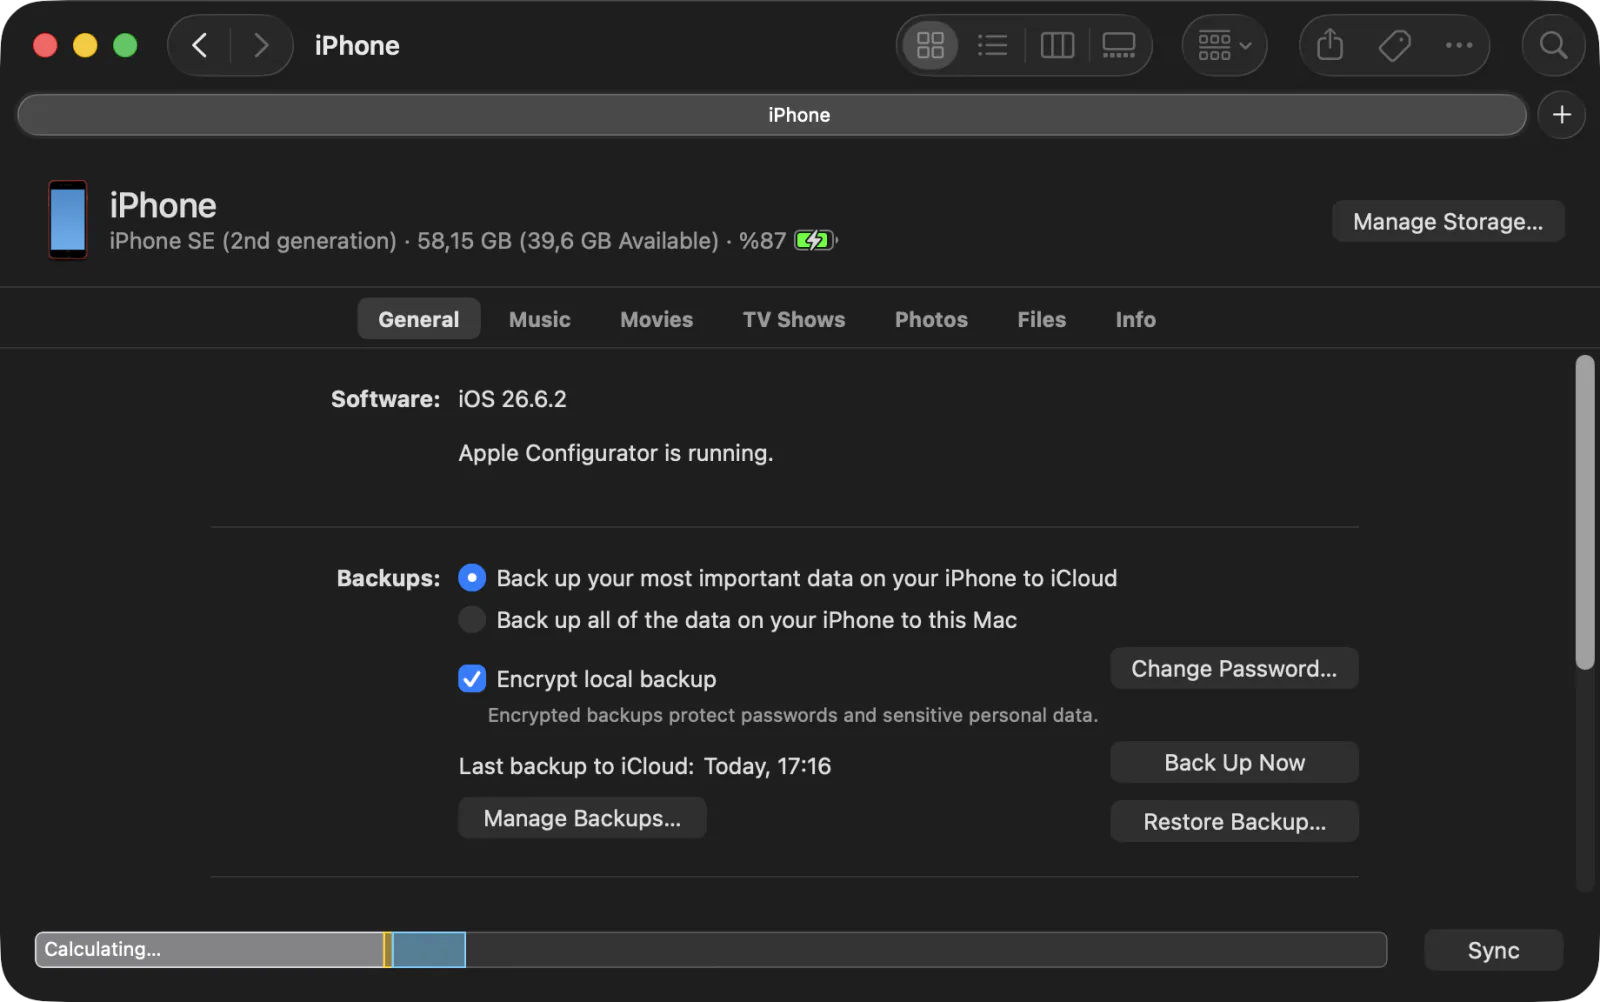
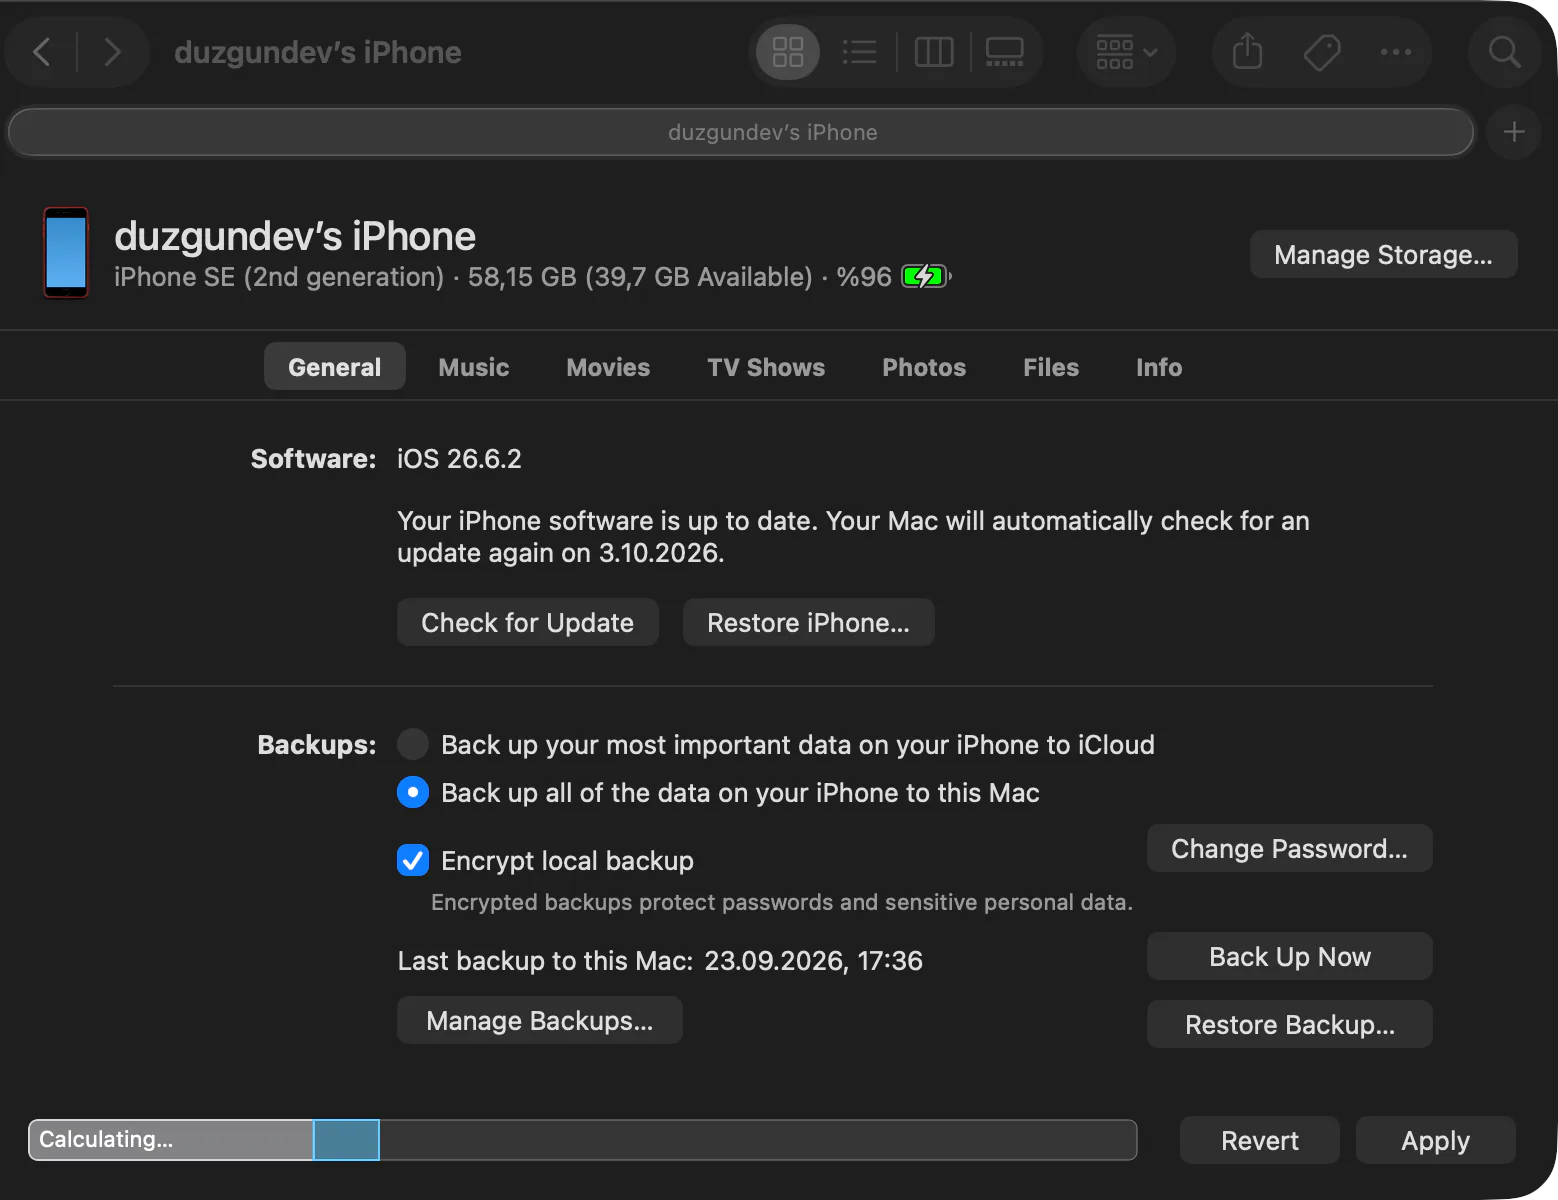
fix(web): the guide's Finder shot backs up to this Mac, encrypted (#7)
Claude-Session: https://claude.ai/code/session_01PE2ufhKG5TLuehkWcaZPHT

diff --git a/apps/web/src/routes/guide.tsx b/apps/web/src/routes/guide.tsx
@@ -308,9 +308,9 @@ function Guide() {
             <p {...props(styles.body)}>{m.guide_step_backup_note()}</p>
             <Shot
               alt={m.guide_shot_backup_finder()}
-              height={501}
+              height={600}
               name="backup-finder"
-              width={800}
+              width={779}
             />
           </Step>
 
